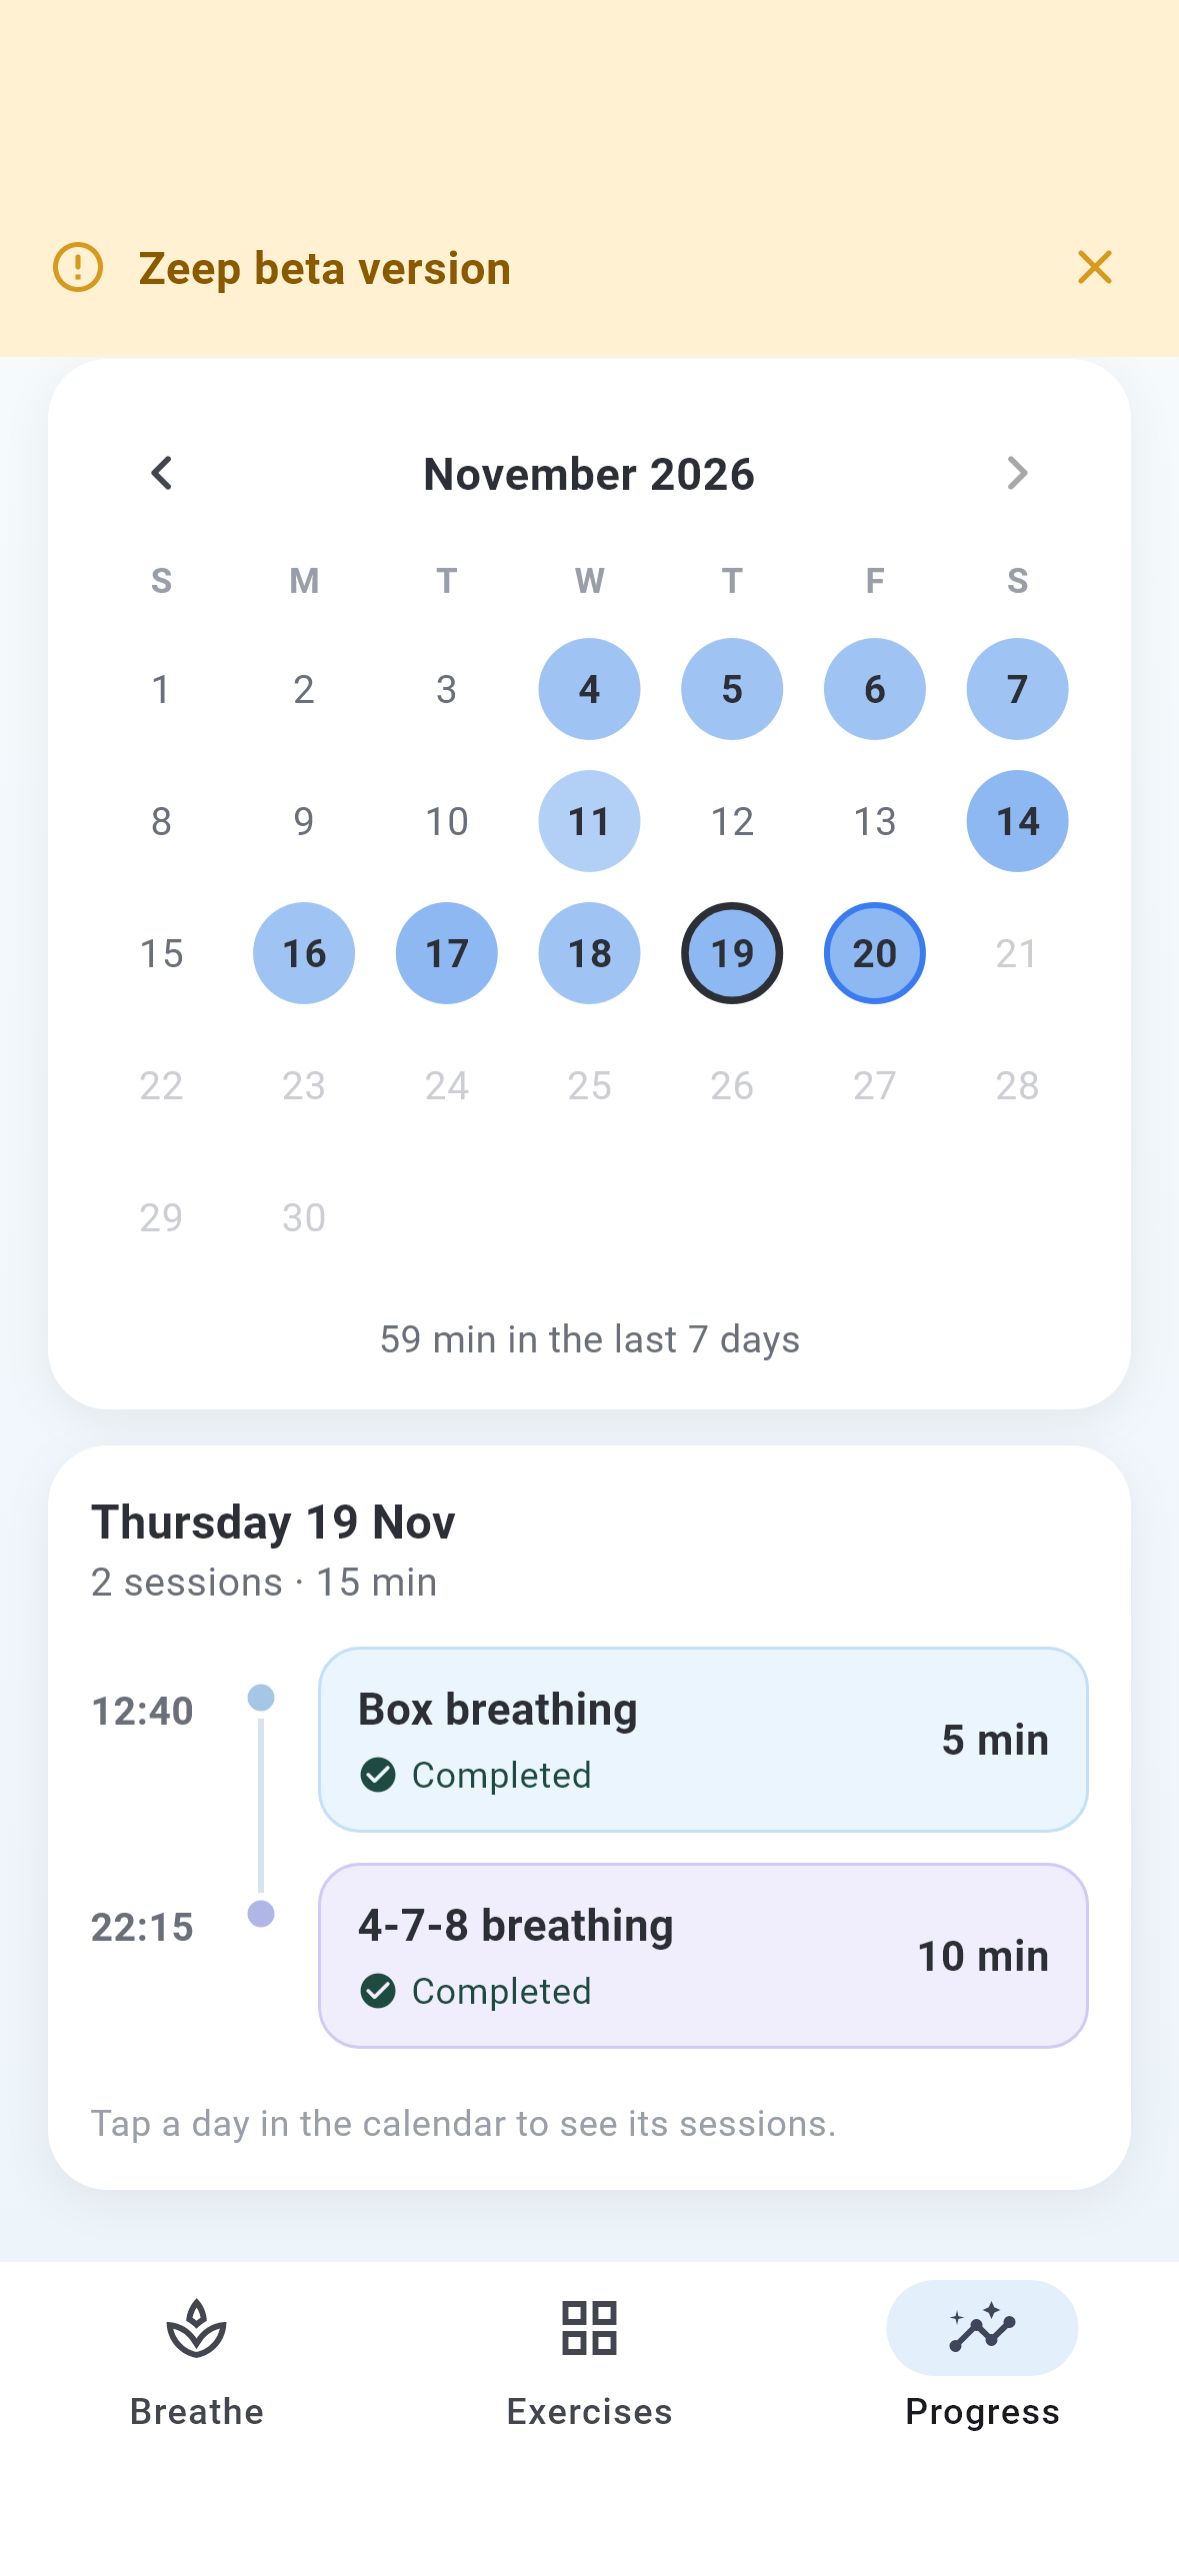
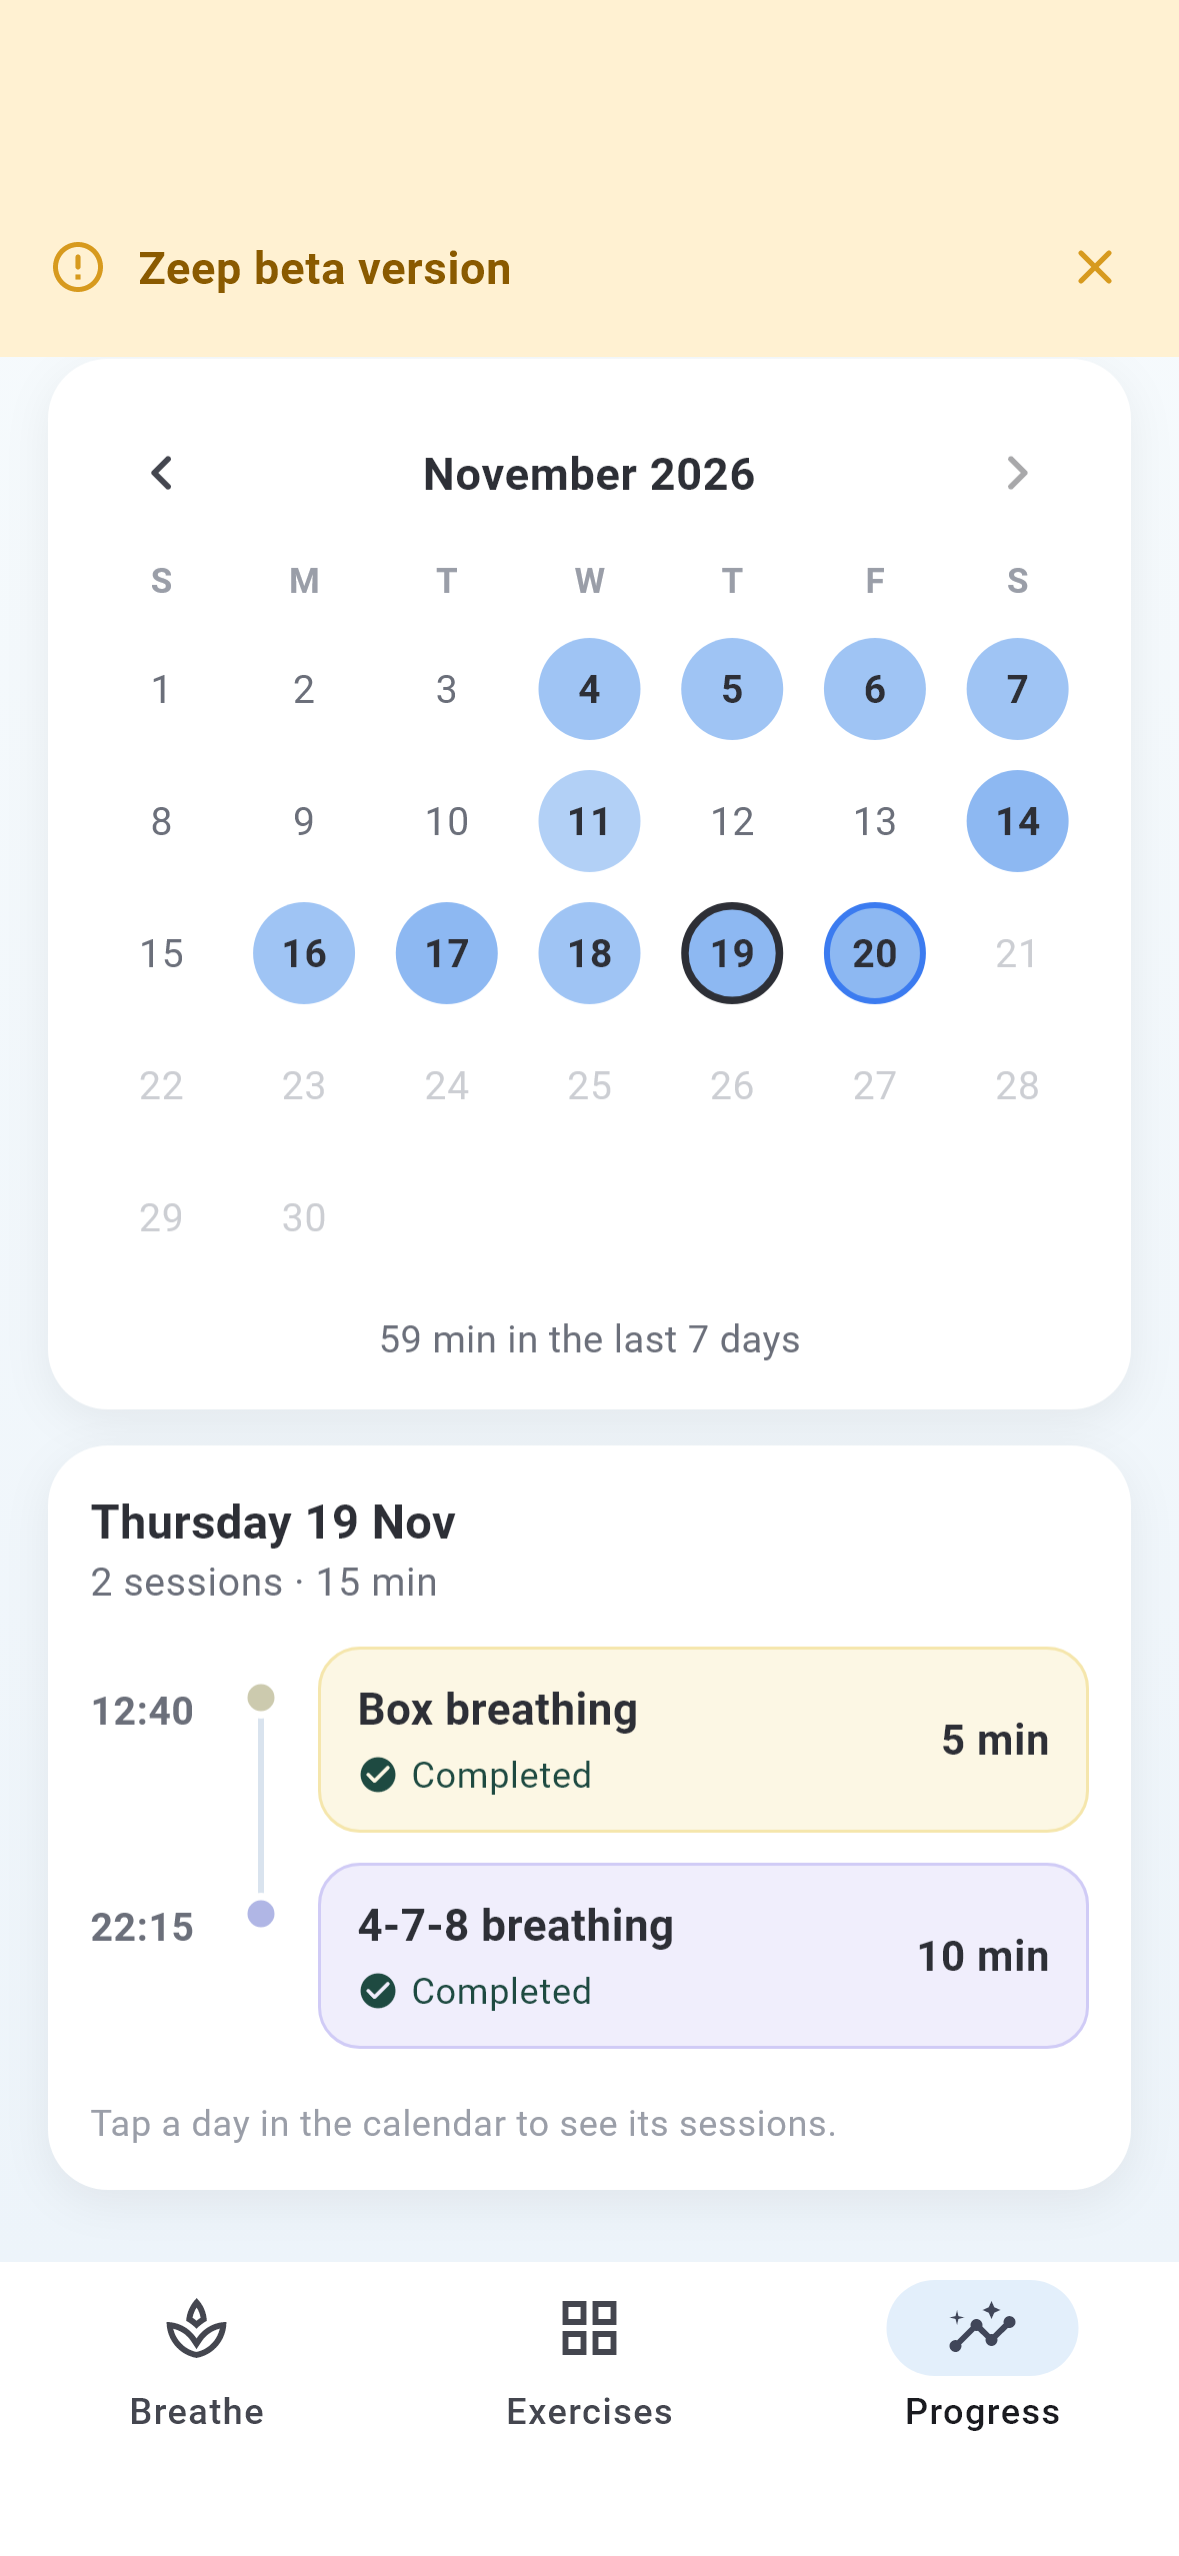
Change box breathing tint to butter yellow (0xFFF4E4A6)
Tony's proposal, approved by the user. Goldens refreshed for the
screens that show the box tint (exercises, box mode, progress,
timeline; EN + TH).

Changed region(s): [[0.2137, 0.6182, 0.9466, 0.7418]]

diff --git a/lib/exercises/exercises.dart b/lib/exercises/exercises.dart
@@ -81,7 +81,7 @@ const exercises = <Exercise>[
     tipTh: _sleepTipTh,
     durations: BreathDurations(4, 4, 4, 4),
     minutes: 5,
-    tint: Color(0xFFBDDEF7),
+    tint: Color(0xFFF4E4A6),
   ),
 ];
 
